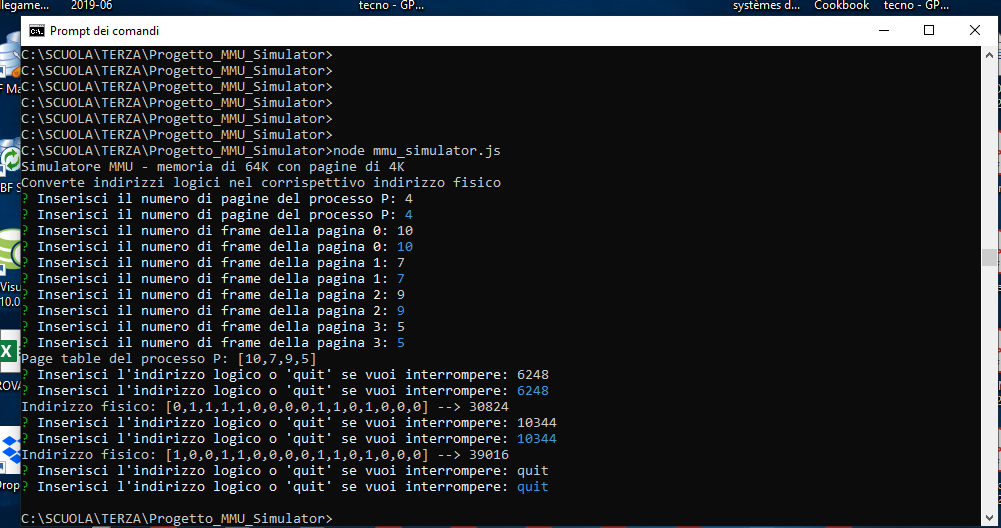
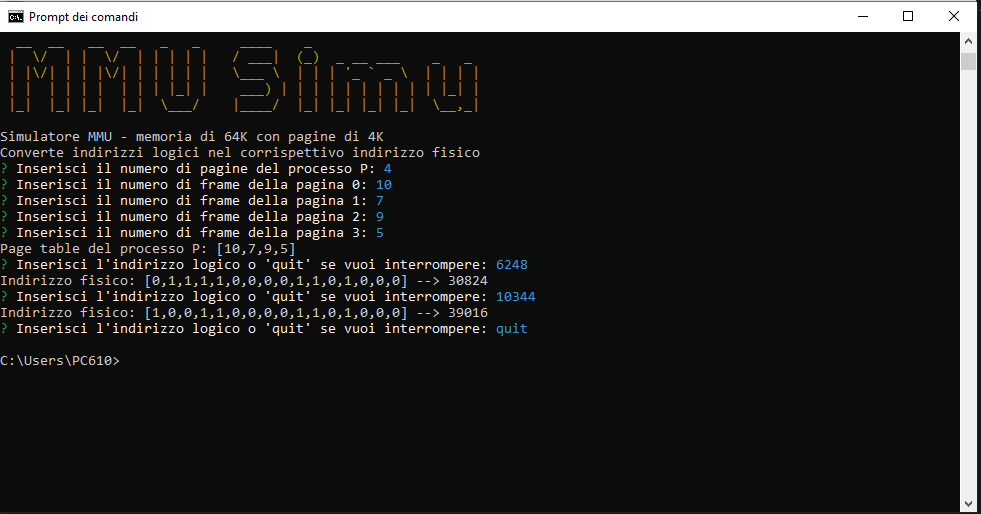
improv

Changed region(s): [[0.0, 0.0, 1.0, 1.0]]

diff --git a/mmu_simulator.js b/mmu_simulator.js
@@ -1,3 +1,5 @@
+#!/usr/bin/env node
+
 'use strict'
 
 const readline = require('readline');
@@ -5,26 +7,15 @@ const Converter = require('./converter');
 const ConversionUtils = require('./ConversionUtils');
 const CustomError = require('./Errors');
 
-const rl = readline.createInterface({
-  input: process.stdin,
-  output: process.stdout
-});
-
-/*
-rl.question('What do you think of Node.js? ', (answer) => {
-  // TODO: Log the answer in a database
-  console.log(`Thank you for your valuable feedback: ${answer}`);
-
-  rl.close();
-});
-*/
-
-var inquirer = require('inquirer');
+const inquirer = require('inquirer');
+const chalk = require('chalk');
+const clear = require('clear');
+const figlet = require('figlet');
 
 var framesStatus = [1,1,1,1,1,1,1,1,1,1,1,1,1,1,1,1];
 var pageTable = [];
 
-async function init() {
+const init = async () => {
   const questionNumPages = [
     { 
       name: 'numPagine',
@@ -83,13 +74,21 @@ async function init() {
   
 }
 
-function introduzione() {
+const introduzione = () => {
+  clear();
+
+  console.log(
+    chalk.yellow(
+      figlet.textSync('MMU Simu', { horizontalLayout: 'full' })
+    )
+  );
+
   console.log('Simulatore MMU - memoria di 64K con pagine di 4K');
   console.log('Converte indirizzi logici nel corrispettivo indirizzo fisico');
 }
 
 
-async function run() {
+const run = async () => {
   introduzione();
 
   await init();

diff --git a/README.md b/README.md
@@ -58,9 +58,22 @@ Il programma può essere visto quindi come un simulatore del lavoro che fa l'MMU
 
 ## IMPLEMENTAZIONE in NODEJS
 
-Algoritmo implementato in nodejs
+Algoritmo implementato in nodejs.
 
-`node mmu_simulator.js`
+Per lanciare l'applicazione: `node mmu_simulator.js`
+
+Oppure installarla globalmente:
+
+```
+npm install -g
+```
+che la registra come `mmusimulator`.
+
+Quindi per eseguirla, da command line:
+
+`mmusimulator`
+
+Output di esempio, esecuzione del programma:
 
 ![](./output_simulator.PNG)
 
